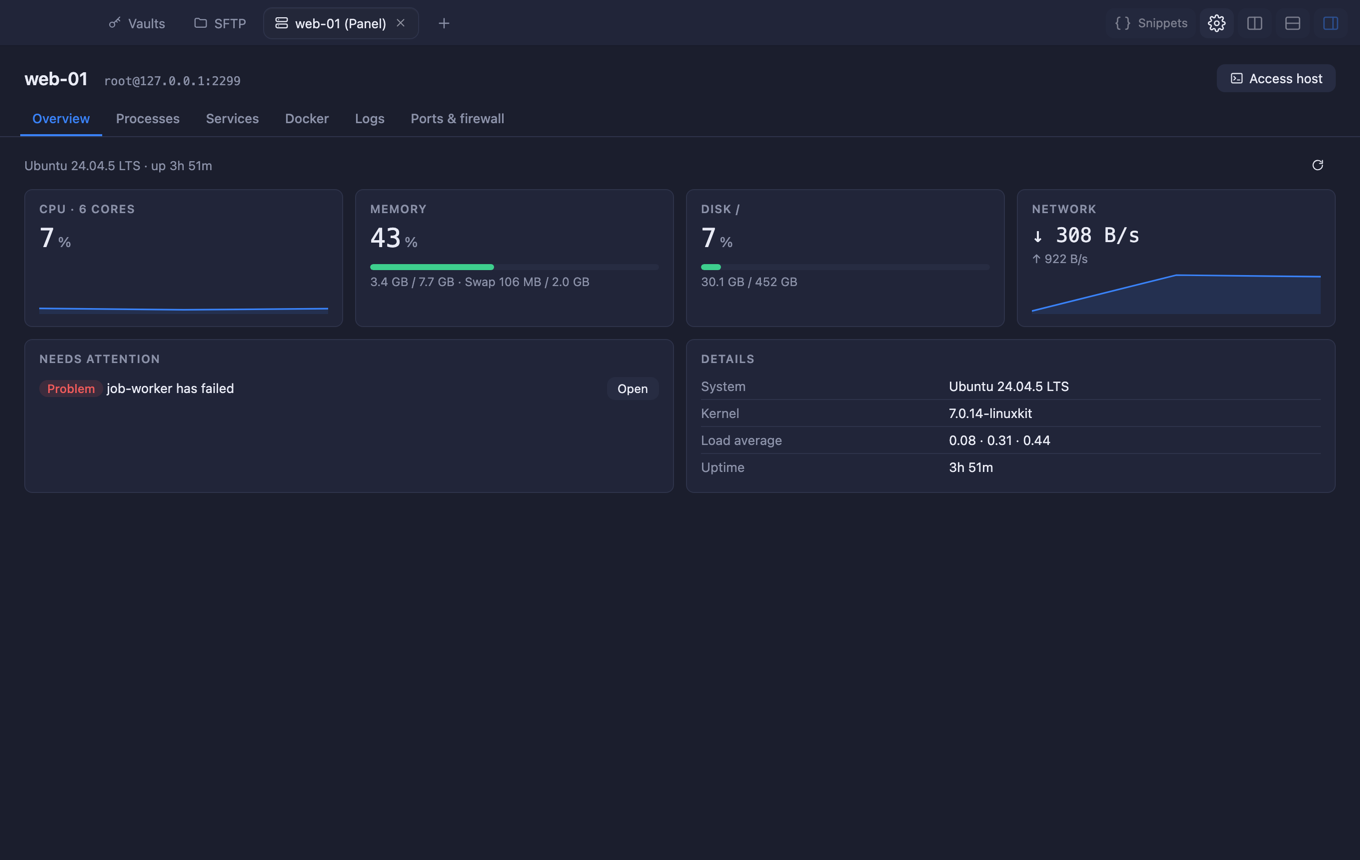
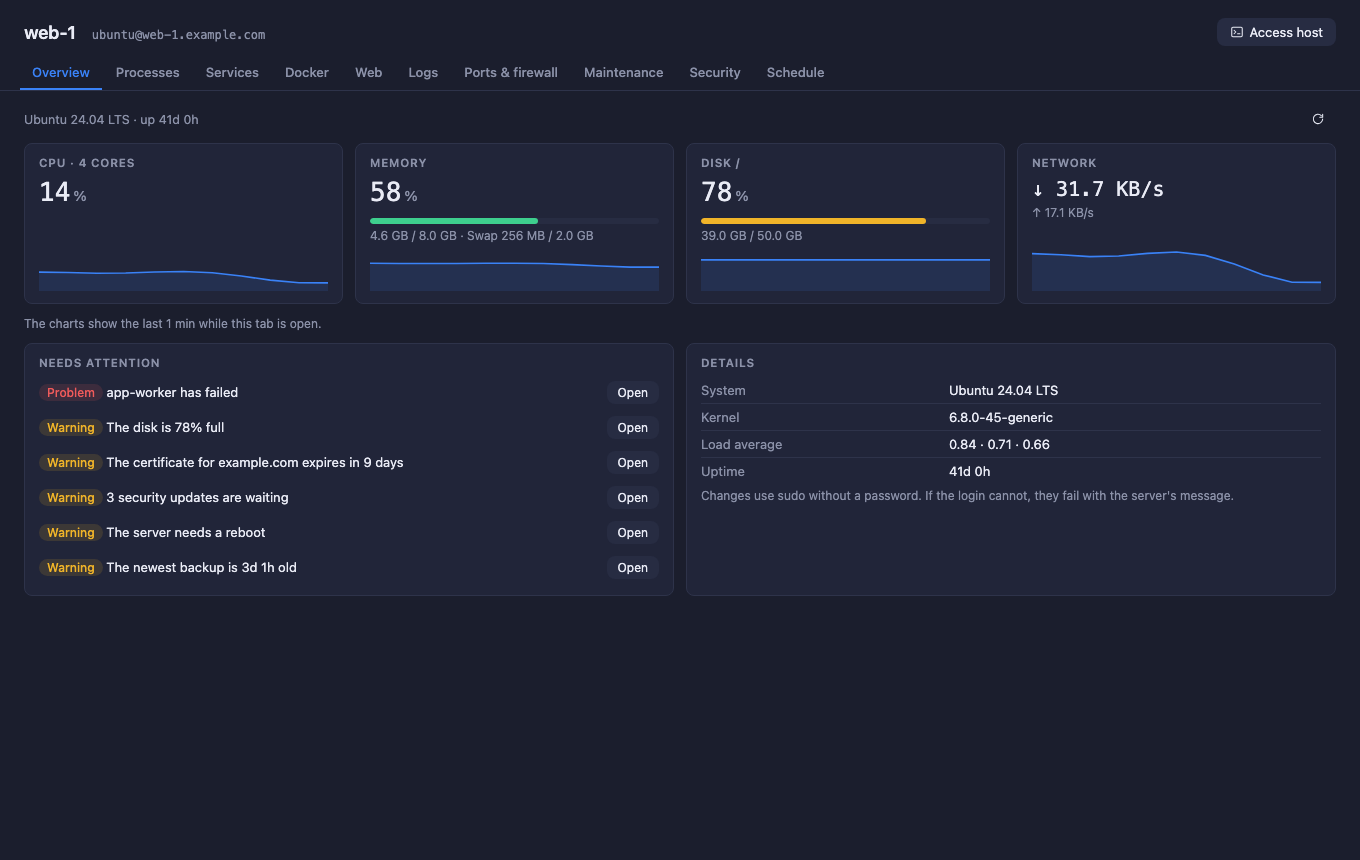
docs(panel): screenshots of the new Panel tabs and the Fleet page in the User Guide

diff --git a/docs/UserGuide.md b/docs/UserGuide.md
@@ -211,14 +211,32 @@ When a host asks which protocol to use (the **Ask which protocol to use** settin
 More tabs for a server you run by hand:
 
 - **Web**: the Let's Encrypt certificates (green, yellow under 14 days, red under 7) and the sites of nginx or Caddy. *Test configuration* changes nothing; *Reload* asks, tests, and reloads only if the test passes.
+
+![Web tab: certificates and the sites of nginx](screenshots/panel/web.png)
 - **Docker** groups containers by Compose project. A stack has *Update* (pull the images, then `up -d`), *Restart*, *Stop*/*Start* and *Logs*, all after a question. It needs Docker Compose v2.
+
+![Docker tab: containers grouped by Compose project](screenshots/panel/docker-stacks.png)
 - **Logs** has **Follow**: it reads the log again every 2 seconds and keeps the newest line in view until you scroll up.
+
+![Logs with Follow on](screenshots/panel/logs-follow.png)
 - **Maintenance**: pending package updates (security ones marked, and whether a reboot is needed; installing them is for the terminal), the disks, and a cleanup of Docker layers, unused images, the journal and the package cache, each with how much it frees. Docker volumes are listed but never cleaned here. *Where the space went* scans one folder at a time.
+
+![Maintenance tab: updates, disks, cleanup, folder sizes](screenshots/panel/maintenance.png)
 - **Security**: failed SSH logins in the last 24 hours by address, fail2ban jails with *Unban*, and the SSH settings (a warning when root or password login is on).
+
+![Security tab: SSH settings, failed logins, fail2ban](screenshots/panel/security.png)
 - **Schedule**: systemd timers (with *Run now* and Logs), cron jobs, and **Backups**: type the folder where your backups land and the panel shows how old its newest file is. The folder is saved with the host.
+
+![Schedule tab: timers, cron and the backup check](screenshots/panel/schedule.png)
 - **Overview** keeps the last half hour of CPU, memory, disk and network while the tab is open, and lists what needs attention: failed services, a full disk, a certificate about to expire, security updates, a reboot, an old backup.
 
+![Overview with history and what needs attention](screenshots/panel/overview.png)
+
 **Fleet** (in the left menu) shows every saved host on one page: up or down, CPU, memory, disk, load and failed services, the hosts with trouble first. Each host gets a short connection of its own that never asks a question, so a host whose key is not trusted yet shows as down: open it once in a terminal. *Open panel* opens its dashboard in a tab.
+
+![Fleet: every saved host on one page](screenshots/panel/fleet.png)
+
+_The screenshots use sample data, not a real server._
 
 ![Panel: Overview](screenshots/panel/overview.png)
 
